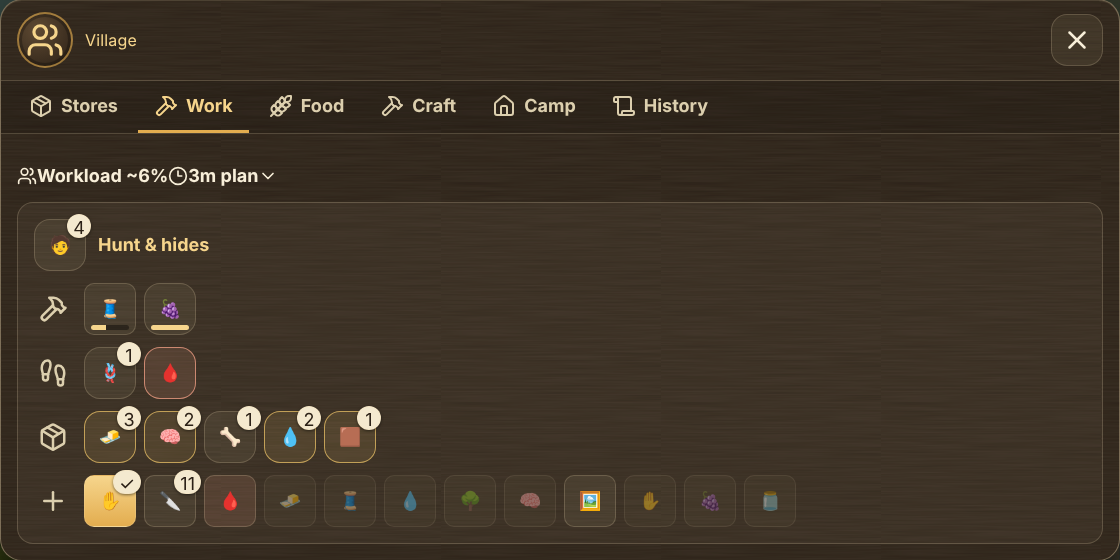
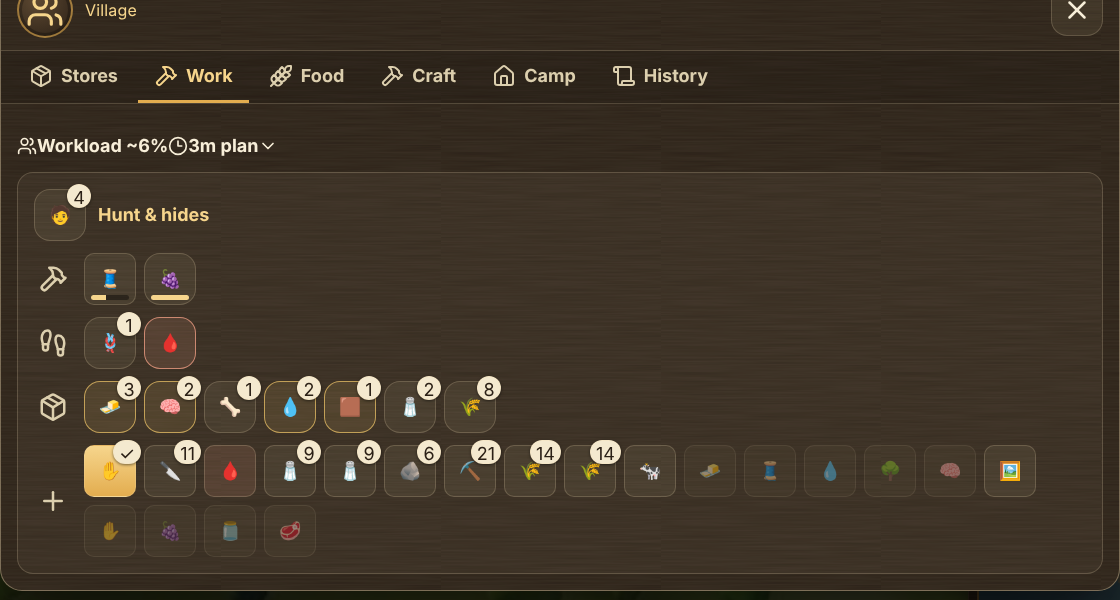
wild-craft: panel tiles for salt, hay and pens; render with sites

diff --git a/src/game/wildCraftControl.ts b/src/game/wildCraftControl.ts
@@ -2,6 +2,7 @@ import type {Game} from './sim';
 import type {Unit} from './types';
 import {carcassAvailable,type HuntableCritter} from './hunting';
 import {personName} from './people';
+import {SITE_ICON,SITE_NAME,siteGood} from './wildStores';
 import {WILD_RECIPES,WILD_RECIPE_IDS,WILD_STATION_SLOTS,BUTCHERY_PARTS,HUNT_METHOD_ICON,wildIssue,beginWildWork,collectWildBatch,stationsFor,wildAdult,wildCraftEnabled,type WildRecipeId} from './wildCraft';
 /** Typed owner commands and a read model for starting wild-craft work and collecting a finished batch.
  * Nothing here changes a rule: every refusal comes from wildIssue/beginWildWork/collectWildBatch, and the
@@ -9,13 +10,13 @@ import {WILD_RECIPES,WILD_RECIPE_IDS,WILD_STATION_SLOTS,BUTCHERY_PARTS,HUNT_METH
 export type WildBeginCommand={kind:'wild-begin';recipe:string;unitId?:number;stationId?:number;critterId?:number;x?:number;z?:number};
 export type WildCollectCommand={kind:'wild-collect';unitId?:number;projectId?:number};
 export type WildPlanRecipe={id:WildRecipeId;icon:string;name:string;station:string;issue:string|null;stations:{id:number;free:number}[]};
-export type WildPlan={enabled:boolean;hands:string[];recipes:WildPlanRecipe[];carcasses:{id:number;icon:string;species:string;parts:number}[];trails:{id:number;icon:string;species:string}[];ready:{projectId:number;icon:string;name:string}[]};
+export type WildPlan={enabled:boolean;hands:string[];recipes:WildPlanRecipe[];carcasses:{id:number;icon:string;species:string;parts:number}[];trails:{id:number;icon:string;species:string}[];ready:{projectId:number;icon:string;name:string}[];sites:{id:number;kind:string;icon:string;name:string;left:number;cap:number;x:number;z:number;recipe:string}[];pens:{id:number;x:number;z:number;icon:string;issue:string|null}[]};
 /** Recipes started from a building (not a carcass, trail or free ground). */
 const STATION_RECIPES=WILD_RECIPE_IDS.filter(id=>!['carcass','field','trail'].includes(WILD_RECIPES[id].station));
 const freeHands=(g:Game)=>g.state.units.filter(u=>u.team===0&&wildAdult(g,u)&&u.wildWorkId===undefined);
 const CARCASS_RADIUS=60;
 export function wildPlan(g:Game):WildPlan{
- const w=g.state.wildCraft;if(!w)return{enabled:false,hands:[],recipes:[],carcasses:[],trails:[],ready:[]};
+ const w=g.state.wildCraft;if(!w)return{enabled:false,hands:[],recipes:[],carcasses:[],trails:[],ready:[],sites:[],pens:[]};
  const camp=g.campOf(0),used=(id:number)=>w.projects.filter(p=>p.stationId===id&&p.phase!=='back').length;
  const recipes=STATION_RECIPES.map(id=>{const r=WILD_RECIPES[id];return{id,icon:r.icon,name:r.name,station:r.station,issue:wildIssue(g,0,id),stations:stationsFor(g,0,r.station as never).map(b=>({id:b.id,free:Math.max(0,WILD_STATION_SLOTS-used(b.id))}))};});
  const carcasses:WildPlan['carcasses']=[];
@@ -25,7 +26,9 @@ export function wildPlan(g:Game):WildPlan{
  const trails:WildPlan['trails']=[];
  for(const[id,wd]of Object.entries(w.wounds)){const c=g.state.wildlife.find(c=>String(c.id)===id);if(c&&c.hp>0&&wd.trail.length>=2&&g.visibleAt(c.x,c.z)&&!w.projects.some(p=>p.critterId===c.id))trails.push({id:c.id,icon:'🩸',species:c.species});}
  const ready=w.projects.filter(p=>p.team===0&&p.phase==='ready'&&p.actorId===0).map(p=>({projectId:p.id,icon:WILD_RECIPES[p.recipe].icon,name:WILD_RECIPES[p.recipe].name}));
- return{enabled:true,hands:freeHands(g).slice(0,8).map(personName),recipes,carcasses:carcasses.slice(0,6),trails:trails.slice(0,4),ready};
+ const sites=(w.sites||[]).filter(x=>g.exploredAt(x.x,x.z)).map(x=>({id:x.id,kind:x.kind,icon:SITE_ICON[x.kind],name:SITE_NAME[x.kind],left:Math.floor(x.left),cap:x.cap,x:x.x,z:x.z,recipe:siteGood(x.kind)==='hay'?'cutHay':'gatherSalt'}));
+ const hayIssue=wildIssue(g,0,'forkHay'),pens=g.state.buildings.filter(b=>b.type==='pen'&&b.team===0&&b.hp>0&&g.finished(b)).slice(0,4).map(b=>({id:b.id,x:b.x,z:b.z,icon:'🐄',issue:hayIssue}));
+ return{enabled:true,sites,pens,hands:freeHands(g).slice(0,8).map(personName),recipes,carcasses:carcasses.slice(0,6),trails:trails.slice(0,4),ready};
 }
 /** Hands in order of preference: explicitly named, then selected, then idle, then nearest to the work. */
 function candidates(g:Game,explicit:number|undefined,selected:readonly number[],at:{x:number;z:number}):Unit[]{

diff --git a/src/ui/hearth/wildPanel.tsx b/src/ui/hearth/wildPanel.tsx
@@ -13,7 +13,7 @@ import {cx} from './kit';
  * screen-reader labels. Every refusal is the engine's own sentence. Hidden on saves without wild-craft. */
 const Q={kind:'wild-craft'} as const;
 type Tone='bad'|'warn'|'good';
-type Cmd={kind:'wild-work-control';projectId:number;paused:boolean}|{kind:'wild-begin';recipe:string;critterId?:number}|{kind:'wild-collect';projectId?:number};
+type Cmd={kind:'wild-work-control';projectId:number;paused:boolean}|{kind:'wild-begin';recipe:string;critterId?:number;x?:number;z?:number}|{kind:'wild-collect';projectId?:number};
 
 function Glyph({icon}:{icon:string}){return <span className="hw-emoji" aria-hidden="true">{icon}</span>;}
 /** Read-only tile: icon, optional count, optional progress bar. */
@@ -41,10 +41,12 @@ export function WildGlance({rows,plan,busy=false,onCommand,note}:{rows:WildCraft
    :<Info key={i} icon={r.icon} label={`${r.why??'Work'}${r.who?` · ${r.who}`:''}`} tip={r.text} pct={percent(r.text)} badge={r.paused?'⏸':undefined}/>;})}</Row>}
   {afield.length>0&&<Row icon={<Footprints/>} label="Out in the wild">{afield.map((r,i)=><Info key={i} icon={r.icon} label={r.kind==='wound'?`Blood trail: ${r.text}`:`${r.why??'Trap'}`} tip={r.kind==='wound'?`Follow it before it bleeds out and the carcass spoils. ${r.amount??0} marks seen.`:r.text} tone={r.urgent?'bad':undefined} badge={r.kind==='trap'?r.text.split(' ')[0]:undefined}/>)}</Row>}
   {stores.length>0&&<Row icon={<Package/>} label="Hides, fat and what is rotting">{stores.map((r,i)=><Info key={i} icon={r.icon} label={`${r.text} in store`} tip={r.why} tone={r.urgent?'warn':undefined} badge={Number.isFinite(+r.text)?Math.round(+r.text):r.text}/>)}</Row>}
-  {plan&&(startable.length>0||plan.carcasses.length>0||plan.ready.length>0||plan.trails.length>0)&&<Row icon={<Plus/>} label="Start work">
+  {plan&&(startable.length>0||plan.carcasses.length>0||plan.ready.length>0||plan.trails.length>0||plan.sites.length>0||plan.pens.length>0)&&<Row icon={<Plus/>} label="Start work">
    {plan.ready.map(b=><Act key={'r'+b.projectId} icon="✋" label={`Collect: ${b.name}`} tip="A finished batch is waiting on its rack. A free adult will carry it home." tone="good" on badge="✓" disabled={busy||!plan.hands.length} onClick={send({kind:'wild-collect',projectId:b.projectId})}/>)}
    {plan.carcasses.map(c=><Act key={'c'+c.id} icon="🔪" label={`Dress the ${c.species}`} tip={`Take fat, sinew, brain and horn: ${c.parts} left on the carcass. One trip carries six.`} badge={c.parts} disabled={busy||!plan.hands.length} onClick={send({kind:'wild-begin',recipe:'dressParts',critterId:c.id})}/>)}
    {plan.trails.map(t=><Act key={'t'+t.id} icon="🩸" label={`Track the ${t.species}`} tip="Follow the blood trail to the wounded animal." tone="bad" disabled={busy||!plan.hands.length} onClick={send({kind:'wild-begin',recipe:'trackWounded',critterId:t.id})}/>)}
+   {plan.sites.map(x=><Act key={'s'+x.id} icon={x.icon} label={x.name} tip={x.left<1?'Spent for now. It renews only in warm weather.':`${x.left} of ${x.cap} left. One trip carries ${x.recipe==='cutHay'?4:2}.`} badge={x.left} tone={x.left<1?'warn':undefined} disabled={busy||!plan.hands.length||x.left<1} onClick={send({kind:'wild-begin',recipe:x.recipe,x:x.x,z:x.z})}/>)}
+   {plan.pens.map(x=><Act key={'p'+x.id} icon={x.icon} label="Fork hay to the herd" tip={x.issue??'Feeds this pen from the hay store. Left-over hay is carried back.'} disabled={busy||!plan.hands.length||!!x.issue} onClick={send({kind:'wild-begin',recipe:'forkHay',x:x.x,z:x.z})}/>)}
    {startable.map(r=><Act key={r.id} icon={r.icon} label={r.name} tip={r.issue??`Needs a free ${r.station}${r.stations.length>1?` (${r.stations.length} available)`:''}`} disabled={busy||!!r.issue} onClick={send({kind:'wild-begin',recipe:r.id})}/>)}
   </Row>}
   {empty&&<p className="hw-empty"><Users size={20}/> Nothing is being hunted, tanned or stored.</p>}

diff --git a/tools/render-preview/ui-hud-entry.tsx b/tools/render-preview/ui-hud-entry.tsx
@@ -8,6 +8,7 @@ import {applyEngineCommand} from '@/game/engineDispatch';
 import {appointCommander,assignToCommander} from '@/game/commanders';
 import {ensureNaval} from '@/game/navalPorts';
 import {enableWildCraft,wildStock,beginWildWork} from '@/game/wildCraft';
+import {generateSites} from '@/game/wildStores';
 import {HudHearth} from '@/ui/hearth/HudHearth';
 import {Hud} from '@/ui/Hud';
 import {lookAtCamera} from '@/ui/hearth/glanceModel';
@@ -26,9 +27,9 @@ w.hwMount=async(o:{scenario:string;ui?:'hearth'|'classic';years?:number})=>{
   const bs=g.state.buildings.filter((b:any)=>b.team===0);for(const b of bs){b.build=1;b.hp=b.maxHp*.8;}const b=bs.find((b:any)=>b.type==='hearth')||bs[0];if(b){b.selected=true;g.state.selBld=b;}}
  if(sc==='army'){clear();const t=g.tribe(0);t.wood+=40;const arm=mine.filter((u:any)=>u.age!==undefined||true).slice(0,4);arm.forEach((u:any)=>{u.militia=true;u.selected=true;});const r=appointCommander(g,arm[0].id,'army',{team:0,free:true});void r;const c=g.state.commanders?.roster?.[0];if(c)assignToCommander(g,c.id,arm.slice(1).map((u:any)=>u.id));}
  if(sc==='wild'){clear();g.state.autoWorkEnabled=false;const freeUp=()=>{for(const u of workers){g.interruptMission(u);delete u.buildOrder;u.order='idle';u.jobLock=false;u.resting=false;delete u.shelterId;u.recalled=false;u.emergency=false;}};const c=g.campOf(0),t=g.tribe(0);t.wood+=200;t.stone+=100;g.vision.fill(2);
-  for(const [ty,dx,dz] of [['hearth',9,8],['tanner',-10,8],['dryrack',12,-8]] as const){g.placeBuilding(ty,c.x+dx,c.z+dz,0);}
+  for(const [ty,dx,dz] of [['hearth',9,8],['tanner',-10,8],['dryrack',12,-8],['pen',-22,-14]] as const){g.placeBuilding(ty,c.x+dx,c.z+dz,0);}
   for(const b of g.state.buildings.filter((b:any)=>b.team===0)){b.build=1;b.hp=b.maxHp;}freeUp();
-  enableWildCraft(g);const wc=g.state.wildCraft!,st=wildStock(g,0);Object.assign(st,{fat:3,sinew:2,brain:2,horn:1,tannedHide:1,soakedHide:2});t.items={...(t.items||{}),cordage:4,cleanHide:2};
+  enableWildCraft(g);const wc=g.state.wildCraft!,st=wildStock(g,0);wc.sites=generateSites(g);for(const x of wc.sites)x.left=Math.floor(x.cap*.6);Object.assign(st,{salt:2,hay:8,fat:3,sinew:2,brain:2,horn:1,tannedHide:1,soakedHide:2});t.items={...(t.items||{}),cordage:4,cleanHide:2};
   const critter=(sp:string,dx:number,hp:number,carc:boolean)=>{const x=c.x+dx,z=c.z+12,a:any={id:g.id(),species:sp,x,z,y:g.height(x,z),hp,maxHp:6,facing:0,vx:0,vz:0,wanderT:10000,fly:0,scale:1};if(carc)a.carcass={meat:30,diedAt:g.state.time,prepared:true,preparationWork:2};g.state.wildlife.push(a);return a;};
   const bleeding=critter('deer',20,3,false);wc.wounds[bleeding.id]={since:g.state.time,trail:[{x:bleeding.x-6,z:bleeding.z},{x:bleeding.x-3,z:bleeding.z},{x:bleeding.x,z:bleeding.z}],bleed:.01};critter('boar',-14,0,true);
   wc.traps.push({id:wc.nextId++,team:0,kind:'snare',x:c.x+16,z:c.z-14,placedAt:g.state.time,uses:2,catches:1,nextCheck:g.state.time+4,setBy:workers[0].id});
